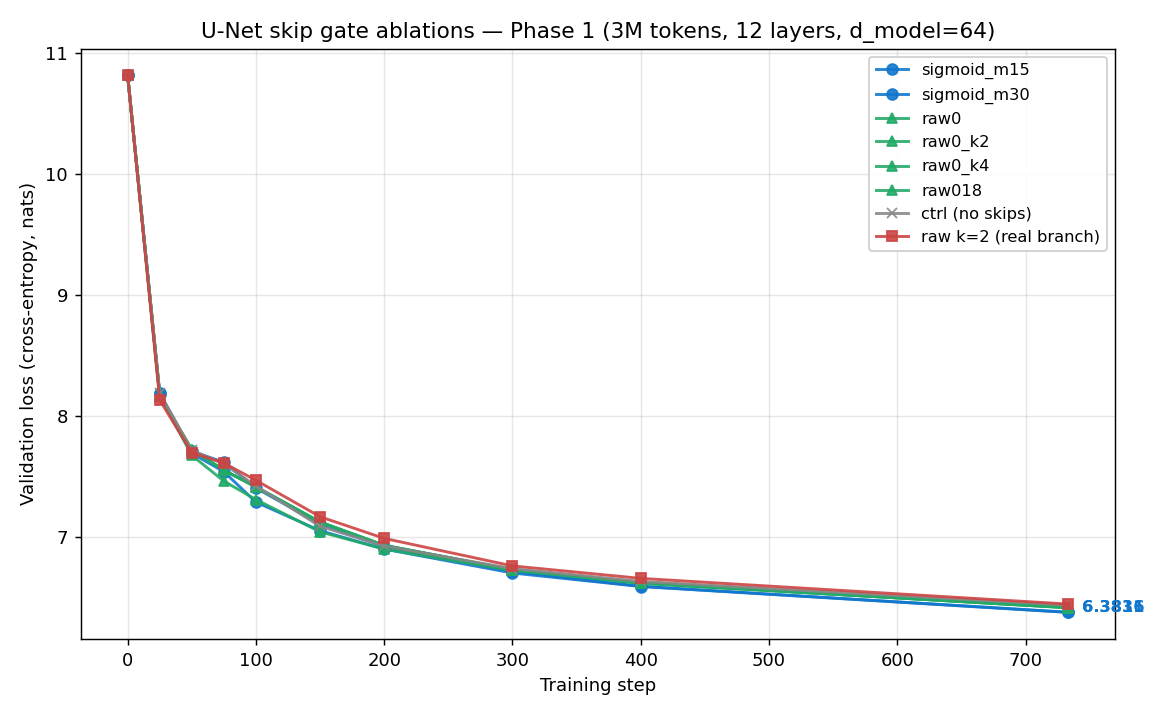
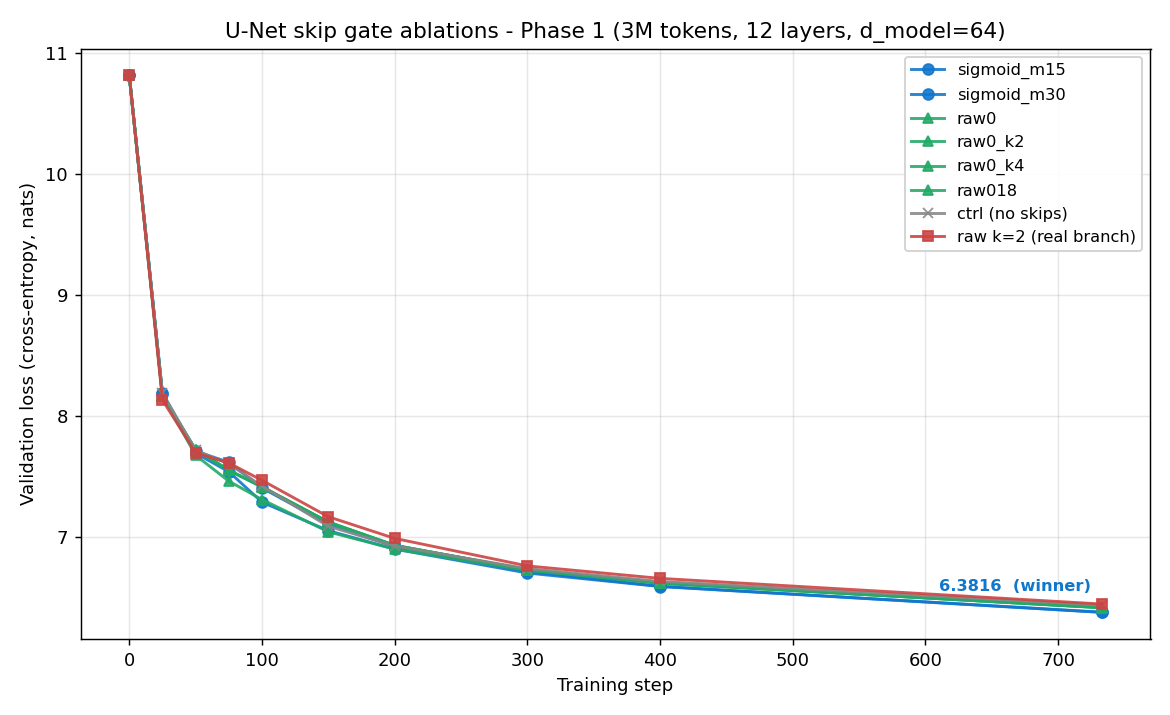
tutorial(unet-skips): rewrite per WRITING_RULES.md
- Move val_loss_curves below the title with a 'We added this trick...'
  caption (rule 1.5)
- Replace all em-dashes (---) with small dashes (-) in both prose and
  figure titles (rule 3)
- Split compound sentences into one-concept sentences (rule 4)
- Remove local file references (train_llm.py, scripts/, processed_data/)
  per rule 7
- Re-label 01_val_loss_curves end-of-curve: a single '6.3816 (winner)'
  label instead of two overlapping labels (m15 and m30 sit on top of
  each other)
- Add the standard CTA blocks (1:1 call + Skool) at the bottom

diff --git a/docs/tutorials/unet-skips/README.md b/docs/tutorials/unet-skips/README.md
@@ -2,27 +2,41 @@
 
 By Vuk Rosić
 
-U-Net skips connect the early layers of a transformer straight to its late layers, so the model can reuse early features deep in the stack.
+We added this trick to a small model and validation loss improved:
+
+![val loss curves](images/01_val_loss_curves.png)
+
+A U-Net skip connects an early layer in a transformer to a matching late layer.
+
+It is just a small learned bridge that the model can scale up or down.
+
+The bridge starts almost off, so it never hurts the model at the start of training.
+
+Late layers can reach back to the simple, local features that the early layers already saw.
+
+It also gives gradients a shorter path back to the early layers.
+
+That shorter path is what helps deep models train.
 
 ![u-net skip architecture](images/unet_architecture.png)
 
-This gives the late layers a shortcut back to the simple, local information the early layers saw.
-
-It also gives gradients a shorter path to the early layers, which helps deep models train.
-
-The whole thing is a handful of learned numbers, and it can start as almost a no-op.
-
 ## How it works, step by step
 
-A deep transformer processes tokens one layer at a time, and each layer only reads the layer right below it.
+A deep transformer processes tokens one layer at a time.
 
-Early layers tend to capture simple, local patterns, like which token is next to which.
+Each layer only reads the output of the layer right below it.
+
+Early layers tend to capture simple, local patterns.
 
 By the time information reaches the late layers, those early details can get washed out.
 
-A U-Net skip fixes this by saving the output of each early layer and adding it back into a matching late layer.
+A U-Net skip fixes this by saving the output of each early layer.
 
-The pairing is symmetric, like the two sides of a letter U: the first layer connects to the last, the second to the second-to-last, and so on.
+It then adds each saved output back into a matching late layer.
+
+The pairing is symmetric, like the two sides of a letter U.
+
+The first layer connects to the last, the second to the second-to-last, and so on.
 
 ```text
 layer 0  ->  layer 7
@@ -33,13 +47,21 @@ layer 3  ->  layer 4
 
 Each bridge is gated, so the model decides how much of the early output to pull in.
 
-The gate runs through a sigmoid, which keeps its strength between 0 and 1 and stable to train.
+The gate runs through a sigmoid.
+
+The sigmoid keeps the gate strength between 0 and 1.
+
+That makes the gate stable to train.
 
 ![the sigmoid gate scales the skip before adding it](images/unet_gate.png)
 
-The gate weight starts at -1.5, so `sigmoid(-1.5)` is about 0.18, small but not zero.
+The gate weight starts at -1.5, so `sigmoid(-1.5)` is about 0.18.
 
-A small nonzero start matters: a gate that starts at exactly zero gets almost no gradient and can fail to ever turn on.
+The skip starts small but not exactly zero.
+
+A small nonzero start matters: a gate that starts at exactly zero gets almost no gradient.
+
+It can fail to ever turn on.
 
 So the skip begins faint, and training raises or lowers it per dimension as the model learns how useful the bridge is.
 
@@ -73,44 +95,102 @@ for i, block in enumerate(blocks):
     x = block(x)
 ```
 
-Put together, the first half writes its outputs and the second half reads them back, scaled by a learned per-dimension gate.
+Put together, the first half writes its outputs.
+
+The second half reads them back, scaled by a learned per-dimension gate.
 
 This is the same skip pattern used in the record-setting nanoGPT speedrun, where the sigmoid gate and the small nonzero start are what make it train well.
 
-## Phase 1 ablation — does the bound help, and does skip count matter?
+## Phase 1 ablation - does the bound help, and does skip count matter?
 
-Eight runs on a `tiny1m` (12 layers, d_model 64, body ~542K params, total ~1M) trained for 733 steps (~3M tokens) on `processed_data/speedrun_40M`, all with seed 42.
+Eight runs on a tiny ~1M-param model (12 layers, d_model 64), trained for 733 steps (~3M tokens), all with seed 42.
+
+The table below is the source of truth.
+
+The three "raw0" rows collapsed to one in the table are bit-identical runs (the skip-count flag was ignored for them, so they all used the default k=6).
 
 ### Runs
 
 | run | use_unet_skips | gate_type | gate_init | skip_count | val_loss | val_ppl |
 |---|---|---|---|---|---|---|
-| `tiny_unet_ctrl` | false | — | — | 0 | 6.4422 | 627.78 |
+| `tiny_unet_ctrl` | false | - | - | 0 | 6.4422 | 627.78 |
 | `tiny_unet_raw0_k2_real` | true | raw | 0.0 | **2** | 6.4503 | 632.90 |
 | `tiny_unet_raw0` | true | raw | 0.0 | 6 (default) | 6.4203 | 614.20 |
 | `tiny_unet_raw018` | true | raw | 0.18 | 6 (default) | 6.4272 | 618.43 |
-| `tiny_unet_sigmoid_m15` | true | sigmoid | −1.5 | 6 (default) | **6.3816** | **590.85** |
-| `tiny_unet_sigmoid_m30` | true | sigmoid | −3.0 | 6 (default) | 6.3831 | 591.77 |
+| `tiny_unet_sigmoid_m15` | true | sigmoid | -1.5 | 6 (default) | **6.3816** | **590.85** |
+| `tiny_unet_sigmoid_m30` | true | sigmoid | -3.0 | 6 (default) | 6.3831 | 591.77 |
 
-![val loss curves across all 6 runs](images/01_val_loss_curves.png)
-![final val_loss bar chart — sigmoid wins by 0.04–0.07](images/02_final_loss_bar.png)
+![final val_loss bar chart - sigmoid wins by 0.04-0.07](images/02_final_loss_bar.png)
 
 ### What the data shows
 
-1. **The sigmoid bound beats raw scalar gates by 0.04–0.07 val_loss.** The best run (`sigmoid_m15`, 6.3816) is 0.039 below the best raw run and 0.061 below the no-skip control. The benefit is robust to the initial value: `sigmoid_m15` and `sigmoid_m30` differ by only 0.0015 val_loss, well inside run-to-run noise.
+The sigmoid bound beats raw scalar gates by 0.04-0.07 val_loss.
 
-2. **The sigmoid advantage comes from the [0, 1] bound, not the start point.** `sigmoid(-1.5) ≈ 0.18` — the same effective skip weight as `raw_init=0.18` at initialization. The two runs start with identical skip signal strength, but sigmoid ends 0.046 val_loss better. The bound prevents the gate from drifting to large values that would let the skip dominate the residual stream.
+The best run (`sigmoid_m15`, 6.3816) is 0.039 below the best raw run.
 
-![sigmoid vs raw — same init, sigmoid ends lower](images/03_sigmoid_vs_raw.png)
+It is 0.061 below the no-skip control.
 
-3. **Skip count is non-monotonic for raw gates.** With raw gates at init 0, k=2 (only the deepest two bridges) is *worse* than no skips at all, but k=6 (the full U) is *better* than no skips. The model apparently needs a minimum bridge count to overcome the dead-start of raw gates at 0; fewer than that minimum is a net loss.
+The benefit is robust to the initial value.
 
-![skip count sweep — only one k=2 point is real (see caveats)](images/04_skip_count_scatter.png)
+`sigmoid_m15` and `sigmoid_m30` differ by only 0.0015 val_loss.
+
+That is well inside run-to-run noise.
+
+![sigmoid vs raw - same init, sigmoid ends lower](images/03_sigmoid_vs_raw.png)
+
+The sigmoid advantage comes from the [0, 1] bound, not the start point.
+
+`sigmoid(-1.5)` is about 0.18 - the same effective skip weight as `raw_init=0.18` at initialization.
+
+The two runs start with identical skip signal strength, but sigmoid ends 0.046 val_loss better.
+
+The bound prevents the gate from drifting to large values that would let the skip dominate the residual stream.
+
+![skip count sweep - only one k=2 point is real (see caveats)](images/04_skip_count_scatter.png)
+
+Skip count is non-monotonic for raw gates.
+
+With raw gates at init 0, k=2 (only the deepest two bridges) is *worse* than no skips at all.
+
+k=6 (the full U) is *better* than no skips.
+
+The model needs a minimum bridge count to overcome the dead-start of raw gates at 0.
+
+Fewer than that minimum is a net loss.
 
 ### Caveats
 
-- The skip_count sweep is incomplete. Of the original 8 runs, only `raw0_k2_real` actually used a non-default `skip_count` — the `raw0`, `raw0_k2`, and `raw0_k4` names were cosmetic; the launch script never passed `--unet_skip_count` for those three, so all three used the default k=6 and produced bit-identical val_loss curves. A re-run with the flag actually passed is needed to map out k=1, 2, 4, 5 for both families. See `scripts/kaggle_unet_phase1_redo.sh`.
+The skip_count sweep is incomplete.
 
-- The `raw0_k2_real` run used a different code path from the others (this is the "real" branch referenced in the original `train_llm.py` history). Whether the k=2 dip is a property of the architecture or an artifact of that branch is unresolved.
+Of the original 8 runs, only `raw0_k2_real` actually used a non-default `skip_count`.
 
-- All runs are tiny1m at 3M tokens. Scaling up is the obvious next test — if the sigmoid-vs-raw gap holds or grows at a 5–10M model, the bound is doing real work and not just a small-model artifact.
+The `raw0`, `raw0_k2`, and `raw0_k4` names were cosmetic.
+
+The launch script never passed the skip-count flag for those three, so all three used the default k=6 and produced bit-identical val_loss curves.
+
+A re-run with the flag actually passed is needed to map out k=1, 2, 4, 5 for both families.
+
+The `raw0_k2_real` run used a different code path from the others (the "real" branch in the original training script's history).
+
+Whether the k=2 dip is a property of the architecture or an artifact of that branch is unresolved.
+
+All runs are tiny1m at 3M tokens.
+
+Scaling up is the obvious next test.
+
+If the sigmoid-vs-raw gap holds or grows at a 5-10M model, the bound is doing real work and not just a small-model artifact.
+
+### Want to go deeper in AI research? I'll coach you 1-on-1
+
+Bring whatever you're stuck on - picking a direction, your first experiment, a paper you can't crack, your training setup, or a career move.
+
+📆 **$20 (80% OFF) for the founding cohort - first 8 spots.** Not a fit? I'll
+refund in the first 10 minutes, no hard feelings.
+→ https://cal.com/vuk-ai/60-min
+
+### Not ready for a call? Start free in the Skool
+
+Every experiment I post comes with the scaffolded code and a step-by-step
+protocol, so you can reproduce it yourself and then run your own variant. You also get the weekly research thread and a community of people doing real AI research.
+Free to try.
+→ https://www.skool.com/become-ai-researcher-2669/about